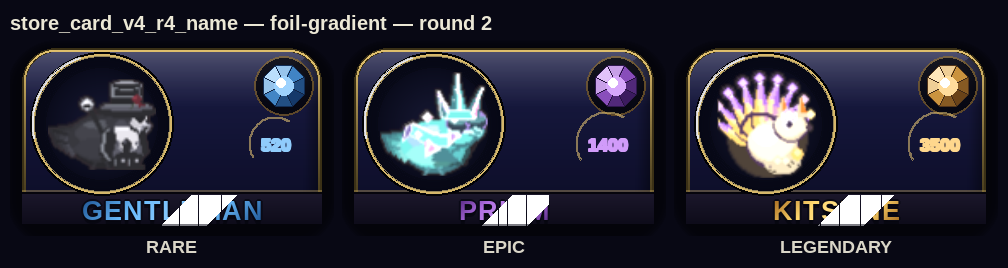
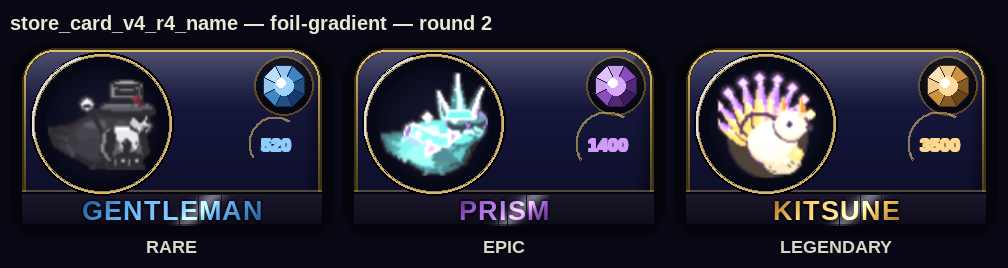
Add store_card_v4_r4_name foil-gradient round 2
Claude-Session: https://claude.ai/code/session_011726ot8uBSmurQVaEkGY6K

Changed region(s): [[0.1538, 0.7164, 0.246, 0.8657], [0.7996, 0.7164, 0.8919, 0.8657], [0.4613, 0.7164, 0.5536, 0.8657]]

diff --git a/tools/_store_card_v4_r4_name_foil_gradient_r2.py b/tools/_store_card_v4_r4_name_foil_gradient_r2.py
@@ -120,15 +120,19 @@ def _name_foil_gradient(big, name, cx, cy, max_w, pal, tier):
 
     # Baked fixed specular glint: a crisp, narrow diagonal band offset from the
     # ramp's bright band so the two-tone shift reads as real foil rather than a
-    # single centered wash.
+    # single centered wash. Intensity lives in the RGB channels (not alpha):
+    # BLEND_ADD adds raw RGB and ignores per-pixel alpha, so a grey ramp is the
+    # only way the additive glint actually attenuates instead of blowing every
+    # touched pixel to pure white.
     sheen = pygame.Surface((bw, bh), pygame.SRCALPHA)
     d0 = int(total * 0.62)
     sigma = bh * 0.26
     for d in range(total):
-        a = int(95 * math.exp(-0.5 * ((d - d0) / sigma) ** 2))
-        if a >= 2:
-            pygame.draw.line(sheen, (255, 255, 255, min(130, a)), (d, 0), (0, d), 2)
-    sheen.blit(base, (0, 0), special_flags=pygame.BLEND_RGBA_MIN)
+        v = min(130, int(95 * math.exp(-0.5 * ((d - d0) / sigma) ** 2)))
+        if v >= 2:
+            pygame.draw.line(sheen, (v, v, v, 255), (d, 0), (0, d), 2)
+    # Clip + feather the glint to the glyph so it never bleeds past the letters.
+    sheen.blit(base, (0, 0), special_flags=pygame.BLEND_RGBA_MULT)
 
     dst = base.get_rect(center=(cx, cy))
 
